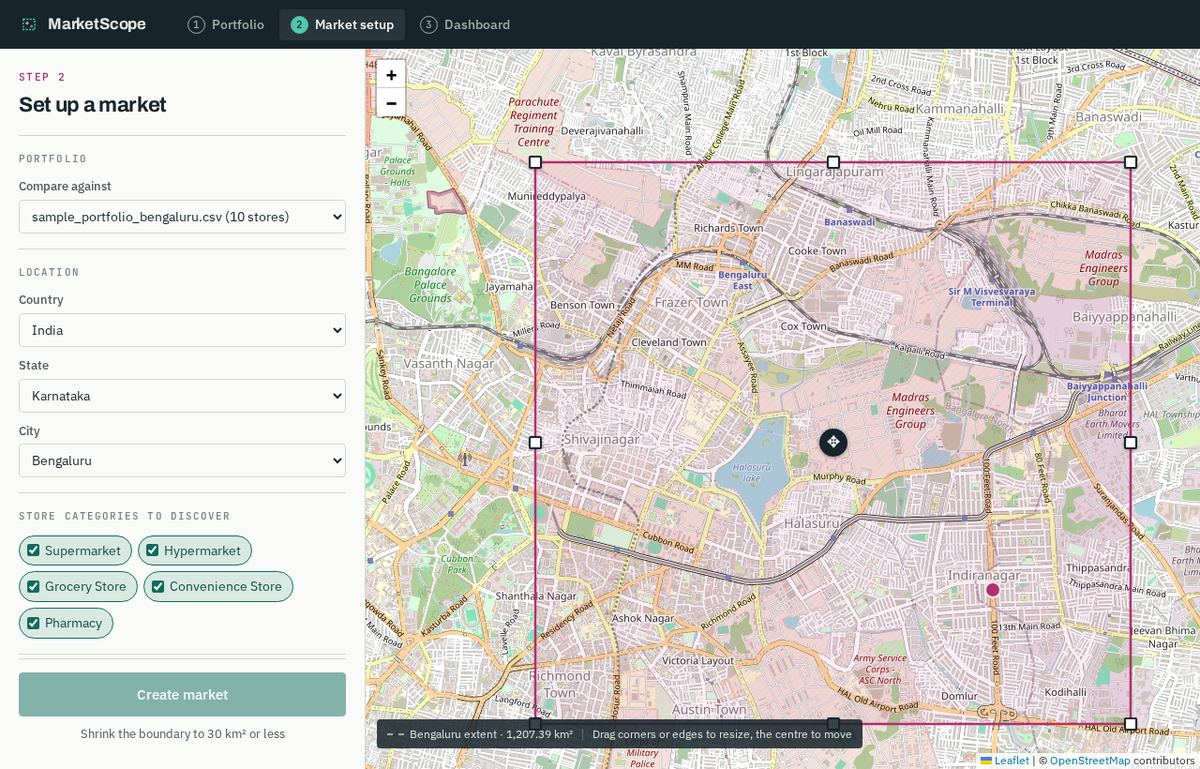
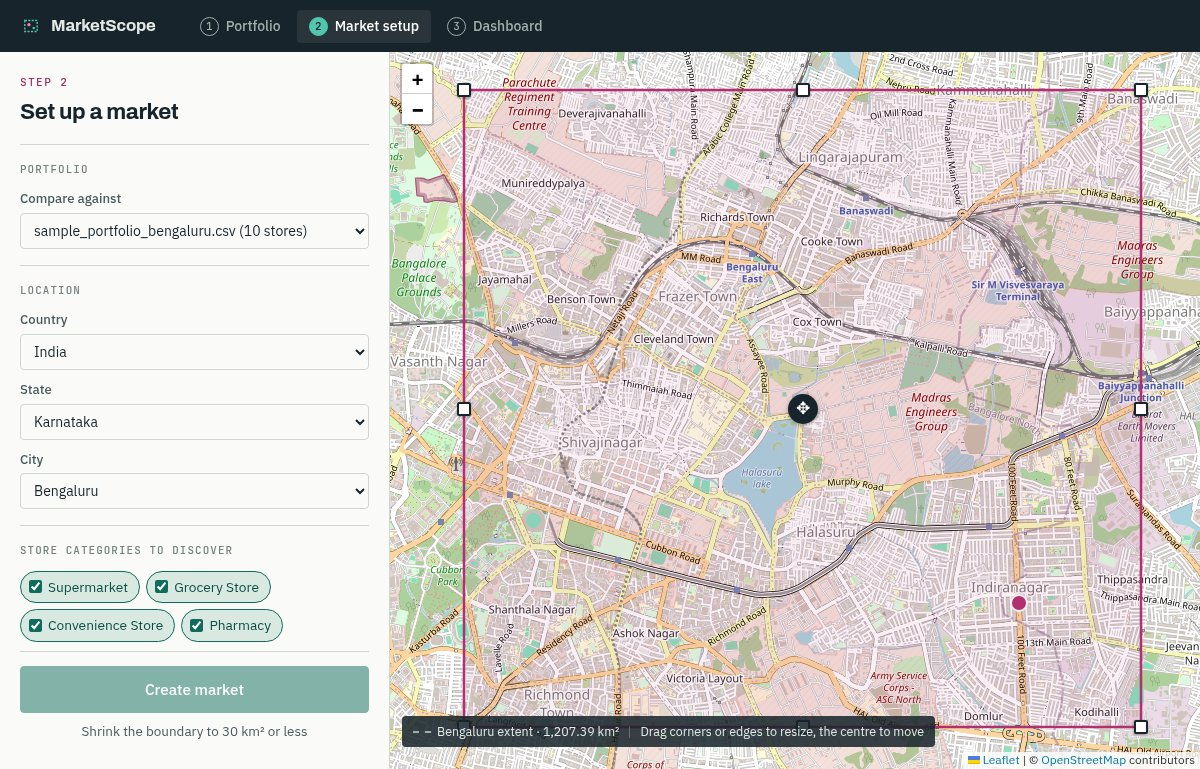
Drop the Hypermarket category and fix grid misses in store matching
Neither Google Places nor OpenStreetMap has a hypermarket type, and the
stand-ins (department store, wholesale, warehouse store) pulled in
outlets that are not hypermarkets. Four categories are now seeded.
Portfolio rows categorised as Hypermarket still upload, geocode,
classify and match. README and screenshots are updated to match.

match_nearby scaled each point's longitude by its own latitude, so a
pair just under 150 m apart could land two grid columns apart and be
missed. It now uses one scale for all points, taken from the latitude
farthest from the equator. A new test checks the grid against brute
force for pairs 140-150 m apart in random directions in four cities.

diff --git a/backend/tests/test_classification.py b/backend/tests/test_classification.py
@@ -1,6 +1,9 @@
+import math
+import random
+
 import pytest
 
-from app.domain.geo import BoundingBox, Coordinate
+from app.domain.geo import BoundingBox, Coordinate, haversine_m
 from app.models import BoundaryStatus
 from app.providers.base import DiscoveredPlace
 from app.services.classification import (
@@ -12,10 +15,10 @@ from app.services.classification import (
     resolve_category,
 )
 
-SUPERMARKET, HYPERMARKET, PHARMACY = 1, 2, 5
+SUPERMARKET, GROCERY_STORE, PHARMACY = 1, 2, 4
 RULES = [
     CategoryRule(SUPERMARKET, frozenset({"supermarket"})),
-    CategoryRule(HYPERMARKET, frozenset({"warehouse_store", "wholesaler"})),
+    CategoryRule(GROCERY_STORE, frozenset({"grocery_store"})),
     CategoryRule(PHARMACY, frozenset({"pharmacy", "drugstore"})),
 ]
 
@@ -26,14 +29,14 @@ def gplace(types, primary=None):
 
 def test_primary_type_decides_between_overlapping_categories():
     assert (
-        resolve_category(gplace(["supermarket", "warehouse_store"], "warehouse_store"), RULES)
-        == HYPERMARKET
+        resolve_category(gplace(["supermarket", "grocery_store"], "grocery_store"), RULES)
+        == GROCERY_STORE
     )
 
 
 def test_falls_back_to_first_matching_category_in_order():
     assert (
-        resolve_category(gplace(["store", "warehouse_store", "supermarket"], "store"), RULES)
+        resolve_category(gplace(["store", "grocery_store", "supermarket"], "store"), RULES)
         == SUPERMARKET
     )
 
@@ -67,6 +70,36 @@ def test_match_radius_boundary(distance_m, matched):
         [PointRef(1, home)], [PointRef(9, offset(home, distance_m))], radius_m=150
     )
     assert bool(result) is matched
+
+
+@pytest.mark.parametrize(
+    "origin",
+    [
+        Coordinate(12.9352, 77.6245),  # Bengaluru
+        Coordinate(28.6139, 77.2090),  # New Delhi
+        Coordinate(-33.8688, 151.2093),  # Sydney: large longitude magnifies column drift
+        Coordinate(60.0, 170.0),
+    ],
+)
+def test_grid_index_agrees_with_brute_force_near_the_radius(origin):
+    """Pairs 140-150 m apart in every direction must all match, as a full scan would."""
+    rng = random.Random(7)
+    misses = 0
+    for _ in range(2000):
+        home = Coordinate(
+            origin.lat + rng.uniform(-0.05, 0.05), origin.lng + rng.uniform(-0.05, 0.05)
+        )
+        bearing = rng.uniform(0, 2 * math.pi)
+        distance = rng.uniform(140, 149.9)
+        candidate = Coordinate(
+            home.lat + distance * math.cos(bearing) / 111_195,
+            home.lng + distance * math.sin(bearing) / (111_195 * math.cos(math.radians(home.lat))),
+        )
+        if haversine_m(home, candidate) > 150:
+            continue
+        if not match_nearby([PointRef(1, home)], [PointRef(2, candidate)], radius_m=150):
+            misses += 1
+    assert misses == 0
 
 
 def test_nearest_candidate_wins():

diff --git a/backend/tests/test_api.py b/backend/tests/test_api.py
@@ -28,7 +28,7 @@ async def test_reference_data_is_seeded(client):
     states = (await client.get(f"/countries/{countries[0]['id']}/states")).json()
     assert [s["name"] for s in states] == ["Delhi", "Karnataka", "Maharashtra"]
     slugs = [c["slug"] for c in (await client.get("/categories")).json()]
-    assert slugs == ["supermarket", "hypermarket", "grocery_store", "convenience_store", "pharmacy"]
+    assert slugs == ["supermarket", "grocery_store", "convenience_store", "pharmacy"]
 
 
 async def test_upload_sample_portfolio(client, sample_csv_bytes):
@@ -162,7 +162,7 @@ async def test_create_market_end_to_end(app, client, sample_csv_bytes):
 async def test_geocoding_skips_rows_from_other_cities(app, client):
     content = (
         b"store_name,address,city,state,country,category,latitude,longitude\n"
-        b'Here,"ITPL Main Road, Whitefield",Bangalore,Karnataka,India,Hypermarket,,\n'
+        b'Here,"ITPL Main Road, Whitefield",Bangalore,Karnataka,India,Supermarket,,\n'
         b"Elsewhere,Linking Road,Mumbai,Maharashtra,India,Supermarket,,\n"
     )
     upload = (
@@ -174,7 +174,7 @@ async def test_geocoding_skips_rows_from_other_cities(app, client):
             "/markets",
             json={
                 "city_id": city_id,
-                "category_ids": [categories["hypermarket"]],
+                "category_ids": [categories["supermarket"]],
                 "boundary": KORAMANGALA_BOX,
                 "portfolio_upload_id": upload["id"],
             },

diff --git a/backend/app/services/classification.py b/backend/app/services/classification.py
@@ -75,9 +75,17 @@ def match_nearby(
     # keeps cells slightly larger than the radius, which is the safe direction.
     cell_deg = radius_m / 110_000
     grid: dict[tuple[int, int], list[PointRef]] = defaultdict(list)
+    portfolio, discovered = list(portfolio), list(discovered)
+
+    # One longitude scale for every point. Scaling each point by its own latitude would
+    # shift columns with latitude (in proportion to absolute longitude), so a pair just
+    # under the radius apart could land two columns apart and be missed. The latitude
+    # farthest from the equator gives the smallest scale, which keeps every cell at least
+    # the radius wide on the ground.
+    latitudes = [p.location.lat for p in (*portfolio, *discovered)]
+    lng_scale = max(min((math.cos(math.radians(lat)) for lat in latitudes), default=1.0), 1e-6)
 
     def cell(c: Coordinate) -> tuple[int, int]:
-        lng_scale = max(math.cos(math.radians(c.lat)), 1e-6)
         return (math.floor(c.lat / cell_deg), math.floor(c.lng * lng_scale / cell_deg))
 
     for point in discovered:

diff --git a/backend/app/models/seed.py b/backend/app/models/seed.py
@@ -14,21 +14,14 @@ LOCATIONS: list[dict] = [
     }
 ]
 
-# Neither Google nor OpenStreetMap has a "hypermarket" type, so it maps to the closest
-# large-format retail types on each side. Grocery vs. convenience is similarly fuzzy in
-# Indian OSM data, where many kirana stores are tagged shop=convenience.
+# Every category maps to a native type on both providers. Grocery vs. convenience is fuzzy
+# in Indian OSM data, where many kirana stores are tagged shop=convenience.
 CATEGORIES: list[dict] = [
     {
         "slug": "supermarket",
         "name": "Supermarket",
         "google": ["supermarket"],
         "overpass": ["shop=supermarket"],
-    },
-    {
-        "slug": "hypermarket",
-        "name": "Hypermarket",
-        "google": ["warehouse_store", "wholesaler", "department_store"],
-        "overpass": ["shop=department_store", "shop=wholesale"],
     },
     {
         "slug": "grocery_store",

diff --git a/README.md b/README.md
@@ -54,7 +54,7 @@ Use `make demo` instead of `make api` for a fully offline run. It uses real Open
 ### Tests
 
 ```bash
-make test       # 71 backend tests + 6 frontend tests; no database or network needed
+make test       # 75 backend tests + 6 frontend tests; no database or network needed
 ```
 
 ### Configuration
@@ -91,7 +91,7 @@ Blank latitude and longitude together is valid. Those rows are geocoded later.
 ![Setup over the cap](docs/screenshots/2-setup-over-cap.jpg)
 
 - **Location.** Country, State and City are dependent dropdowns fed from seeded tables.
-- **Categories.** Chips for the five seeded categories. They default to the categories present in the chosen portfolio, so the first comparison is like for like.
+- **Categories.** Chips for the four seeded categories. They default to the categories present in the chosen portfolio, so the first comparison is like for like.
 - **Boundary.** Choosing a city fetches its bounding box from Nominatim and caches it in the database, so each city is looked up once. The city's full extent is drawn dashed. The editable rectangle can be resized from its corners and edges and moved from its centre.
 - **Cost guardrail.** The area meter updates on every drag event. Above 30 km² the rectangle and meter turn magenta, the reason is stated under the button, and **Create market** is disabled. The API re-checks the cap using the identical formula.
 - **Live portfolio preview.** Portfolio stores are plotted and recoloured inside or outside as the rectangle moves.
@@ -220,10 +220,11 @@ A row's position relative to the boundary cannot be known before it has coordina
 
 ### Category mapping lives in the database
 
-`category_provider_types` maps each category to one or more provider types.
+`category_provider_types` maps each category to one or more provider types. Four categories are seeded: Supermarket, Grocery Store, Convenience Store and Pharmacy.
 
-- **Hypermarket.** There is no hypermarket type in Google Places or in OpenStreetMap. It maps to `warehouse_store`, `wholesaler` and `department_store` on Google, and to `shop=department_store` and `shop=wholesale` on OSM.
+- **No Hypermarket.** The brief lists Hypermarket as an example, but neither Google Places nor OpenStreetMap has a hypermarket type. The nearest stand-ins, such as wholesale, warehouse and department stores, pull in outlets that are not hypermarkets. The category is left out rather than filled with misleading results. Adding it back is a data migration that inserts the category and its provider types, with no code change.
 - **Grocery Store.** It maps to `shop=grocery` and `shop=greengrocer`. In Indian OSM data, many kirana stores are tagged `shop=convenience` instead.
+- **Portfolio categories are free text.** The two sample rows marked Hypermarket still upload, geocode, classify and match. They just do not pre-select a category chip.
 
 When a place matches several selected categories, the provider's primary type decides, then category order.
 
@@ -235,7 +236,7 @@ A portfolio is a snapshot of the business's estate. Silently importing 197 of 20
 
 A market boundary is an axis-aligned rectangle, and "inside" is four comparisons. Storing four floats keeps setup to stock Postgres, and the geo logic stays in pure Python where it is unit-tested.
 
-The 150 m matching uses haversine over a grid index with cells slightly larger than the radius. Each portfolio store checks nine cells instead of every discovered store. PostGIS would earn its place with arbitrary polygons or cross-market spatial queries.
+The 150 m matching uses haversine over a grid index with cells slightly larger than the radius. Longitude uses one scale for the whole market, so cells keep that size in both directions. Each portfolio store checks nine cells instead of every discovered store. PostGIS would earn its place with arbitrary polygons or cross-market spatial queries.
 
 ---
 
@@ -302,7 +303,7 @@ Interactive docs are served at `http://localhost:8000/docs`. Every error uses on
 | **HTTP resilience** | 429 with `Retry-After`, non-retryable 4xx, HTML with a 200, validator-driven retries, mirror rotation, giving up, budget counting retries, backoff bounds |
 | **Providers** | Nominatim box ordering, address fallback, Overpass query and parsing including way centres, Google circle restriction, field mask, saturation flag |
 | **Discovery** | Dedupe across overlapping tiles, dropping overhang, subdividing saturated tiles, reporting saturation at minimum size, deferred retry pass, persistent failure recorded without aborting, budget exhaustion, per-tile progress, concurrency not changing results |
-| **Classification** | Primary-type category resolution, dropping unselected categories, city aliases, the 150 m match boundary at 149 and 151 m, nearest candidate wins |
+| **Classification** | Primary-type category resolution, dropping unselected categories, city aliases, the 150 m match boundary at 149 and 151 m, the grid index agreeing with brute force for pairs just inside the radius in any direction, nearest candidate wins |
 | **End to end** | Through HTTP on SQLite with fixture providers: seeded reference data, upload success and both failure shapes, suggested boundary, cap refusal, inverted boundary, 404 envelope, and a full market run. The run asserts only selected categories, nothing outside the box, no duplicates, the expected inside and outside split for the sample, three rows geocoded, and FreshMart matched within 150 m. Also covered: rows from other cities are never geocoded |
 | **Frontend** | Area parity with the backend value, normalisation of crossed handles, translation, inclusive edges |
 
@@ -311,7 +312,7 @@ Interactive docs are served at `http://localhost:8000/docs`. Every error uses on
 ## Known limitations and shortcuts
 
 - **The job runner is in-process.** Jobs do not survive a restart. They are marked failed on the next startup rather than resumed, and they do not scale across API replicas. A production build would use a durable queue. The pipeline is already written for that move.
-- **Google Places has not been exercised against the live API.** No billing account was set up for this exercise. The provider is unit-tested against mocked responses shaped after the documented Places API (New), including the request body, field mask and saturation handling. The Google type mapping for Hypermarket should be checked against a live key.
+- **Google Places has not been exercised against the live API.** No billing account was set up for this exercise. The provider is unit-tested against mocked responses shaped after the documented Places API (New), including the request body, field mask and saturation handling.
 - **OpenStreetMap coverage is uneven.** Many shops are unnamed, and they appear as "Unnamed pharmacy" and so on. Some are tagged differently from what the category mapping expects. Google's coverage of Indian retail would be denser.
 - **Geocoding precision is street-level at best.** "80 Feet Road" is kilometres long, so a geocoded row can land in the wrong spot. Rows that fail to geocode are shown as unlocated, not guessed.
 - **Public infrastructure is used directly.** The public Overpass, Nominatim and OSM tile servers are fine for a demo, but their usage policies do not allow production traffic. Production would use a paid provider or a self-hosted instance.
